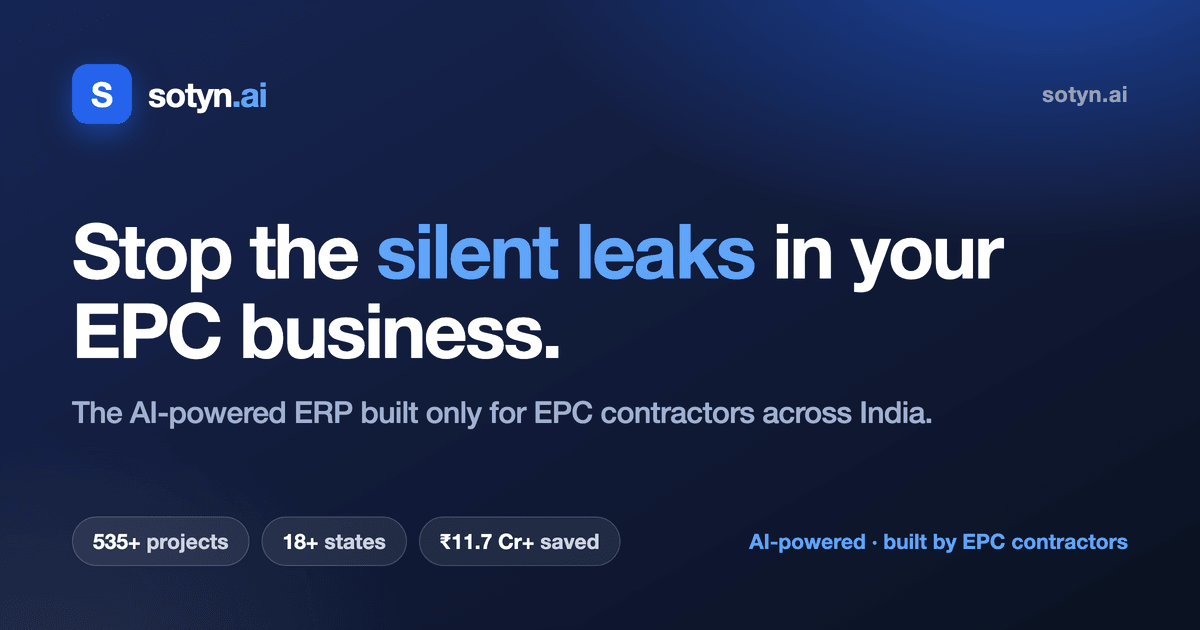
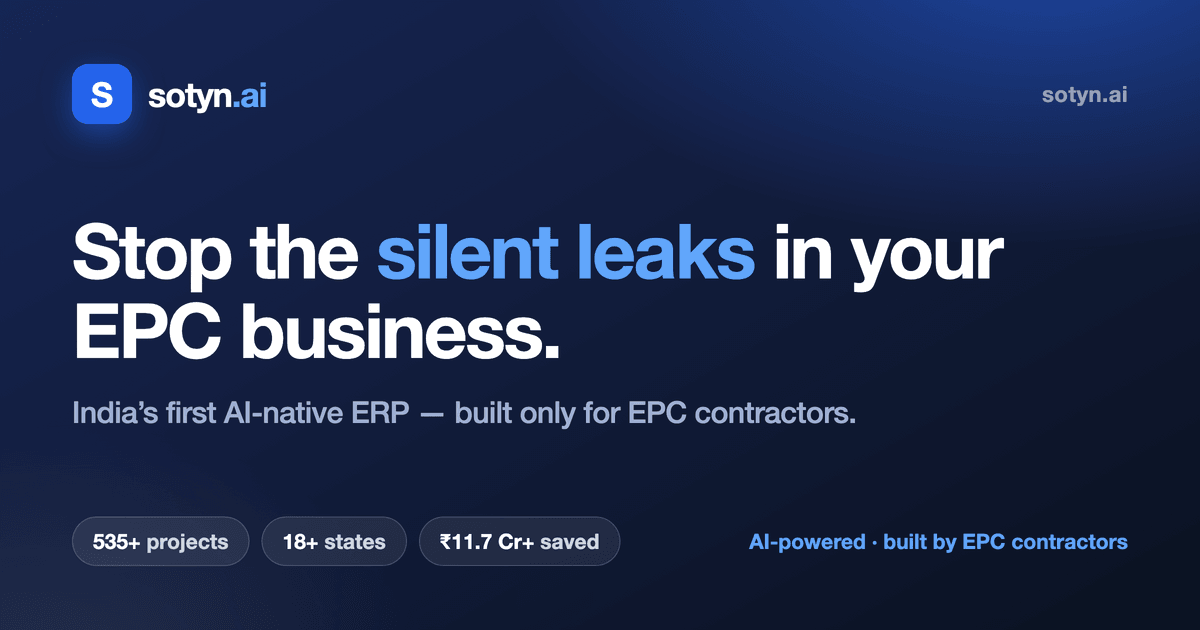
Add "India's first AI-native ERP" tagline
Tagline, hero badge and OG share image now lead with the first-mover claim,
scoped narrowly (AI-native ERP built only for EPC contractors) to stay defensible.

Changed region(s): [[0.0617, 0.6333, 0.7708, 0.6937]]

diff --git a/src/config/site.ts b/src/config/site.ts
@@ -13,7 +13,7 @@ export const SITE = {
   name: "sotyn.ai",
   legalName: "sotyn.ai",
   brandShort: "sotyn.ai",
-  tagline: "The AI-powered ERP built only for EPC contractors",
+  tagline: "India’s first AI-native ERP — built only for EPC contractors",
   promise:
     "AI that shows you exactly where your money is leaking — from quote to site to collection — and helps you plug it.",
   parentCompany: "Secured Engineers Pvt. Ltd.",